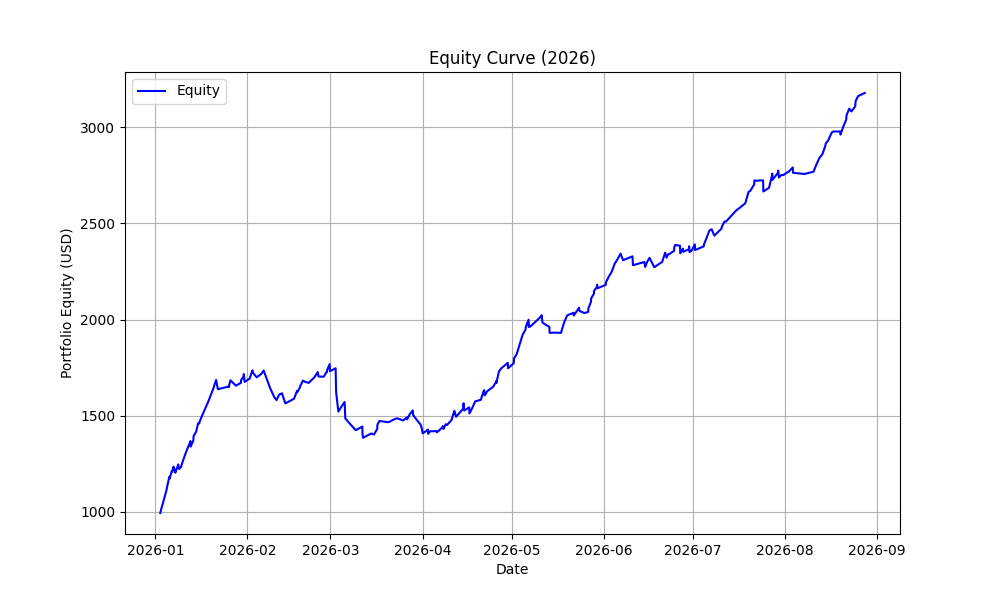
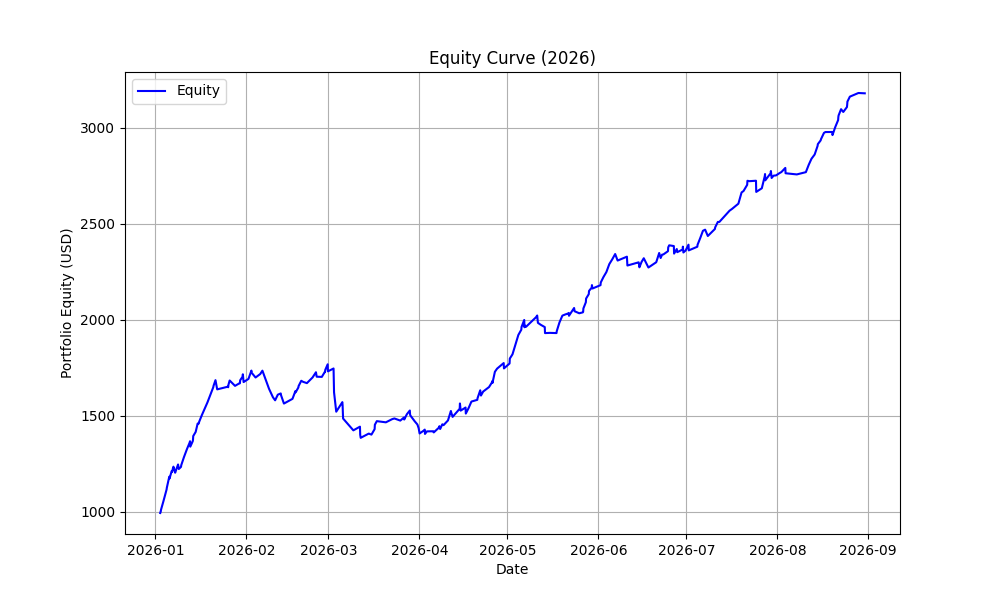
update

diff --git a/live_algo.py b/live_algo.py
@@ -418,7 +418,7 @@ def main():
                             lines.append(st_info)
 
                         if pos:
-                            current_sl = engine._manual_sl_threshold if engine._manual_sl_threshold is not None else pos.entry_premium * (1 + CONFIG.stop_loss_percent / 100.0)
+                            current_sl = engine._manual_sl_threshold if engine._manual_sl_threshold is not None else pos.entry_premium * 2.0
                             lines.append(
                                 f"\n📌 *Open Position*\n"
                                 f"Symbol: `{pos.symbol}`\n"

diff --git a/engine.py b/engine.py
@@ -202,7 +202,7 @@ class StrategyEngine:
         elif self._manual_sl_threshold is not None:
             sl_threshold = self._manual_sl_threshold
         else:
-            sl_threshold = self.current_position.entry_premium * (1 + self.cfg.stop_loss_percent / 100.0)
+            sl_threshold = self.current_position.entry_premium * 2.0
         
         # We sold the option, so if premium goes UP above the threshold, we lose and SL triggers.
         if current_premium >= sl_threshold:
